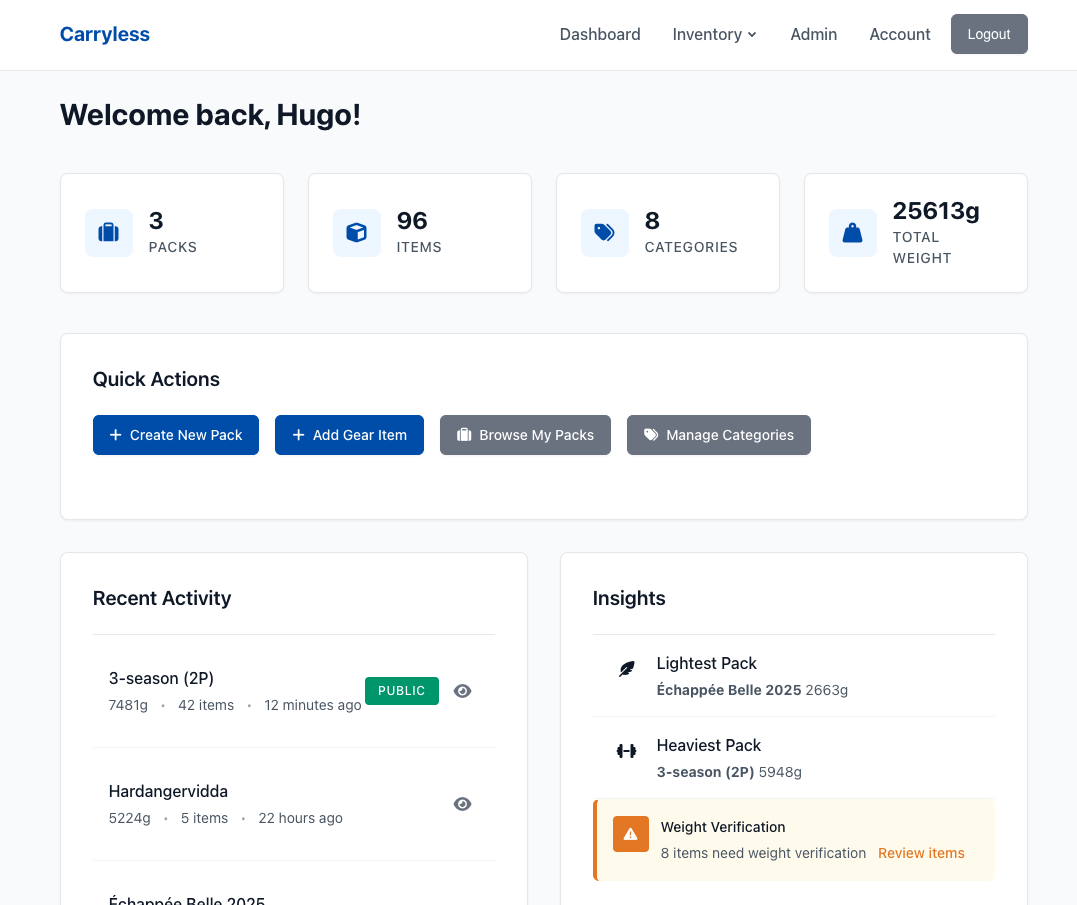
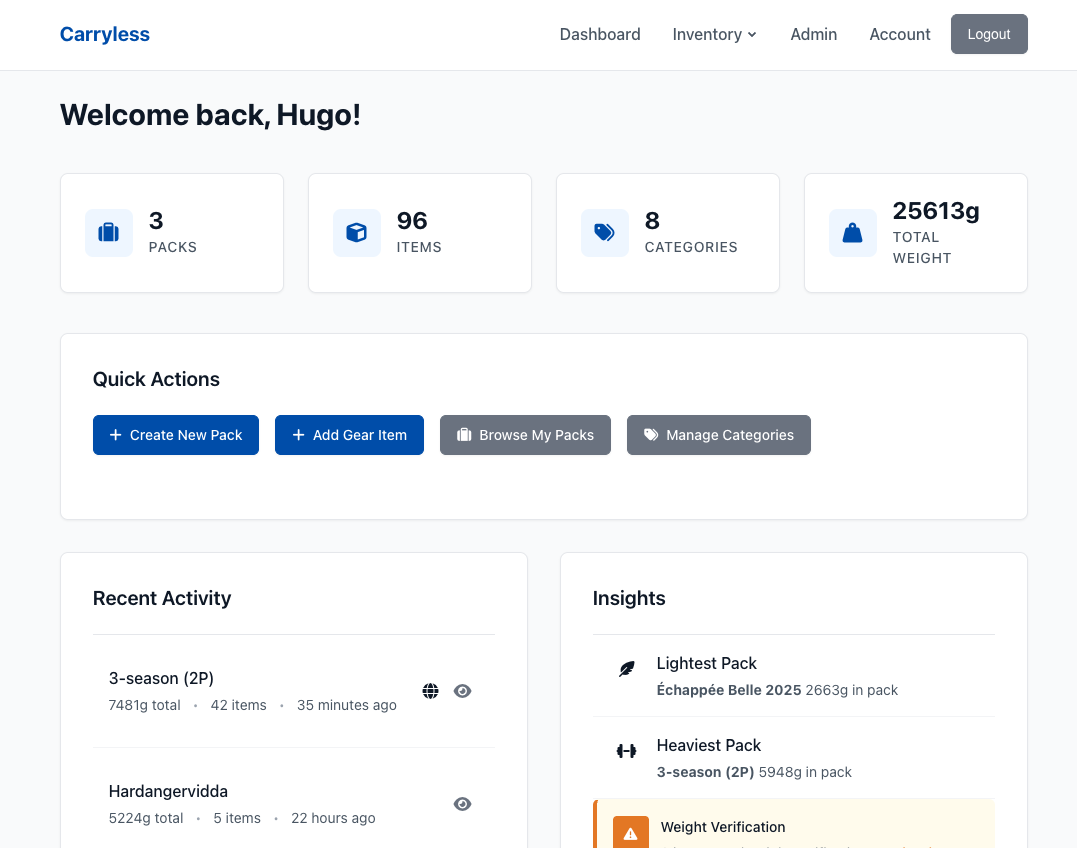
chore: ui

diff --git a/templates/dashboard.html b/templates/dashboard.html
@@ -139,7 +139,9 @@
                                     </div>
                                     <div class="pack-actions">
                                         {{if .IsPublic}}
-                                            <span class="badge badge-public">Public</span>
+                                            <span class="public-indicator" title="Public pack">
+                                                <i class="fas fa-globe"></i>
+                                            </span>
                                         {{end}}
                                         <a href="/packs/{{.ID}}" class="icon-link" title="View pack">
                                             <i class="fas fa-eye"></i>

diff --git a/static/css/style.css b/static/css/style.css
@@ -1212,6 +1212,19 @@ th .dropdown-menu {
     color: var(--color-primary);
 }
 
+.public-indicator {
+    display: inline-flex;
+    align-items: center;
+    justify-content: center;
+    width: 24px;
+    height: 24px;
+    border-radius: 50%;
+    background-color: #e0f2fe;
+    color: #0369a1;
+    font-size: 11px;
+    margin-right: var(--space-1);
+}
+
 .badge-public {
     background: var(--color-success-light);
     color: var(--color-success);
